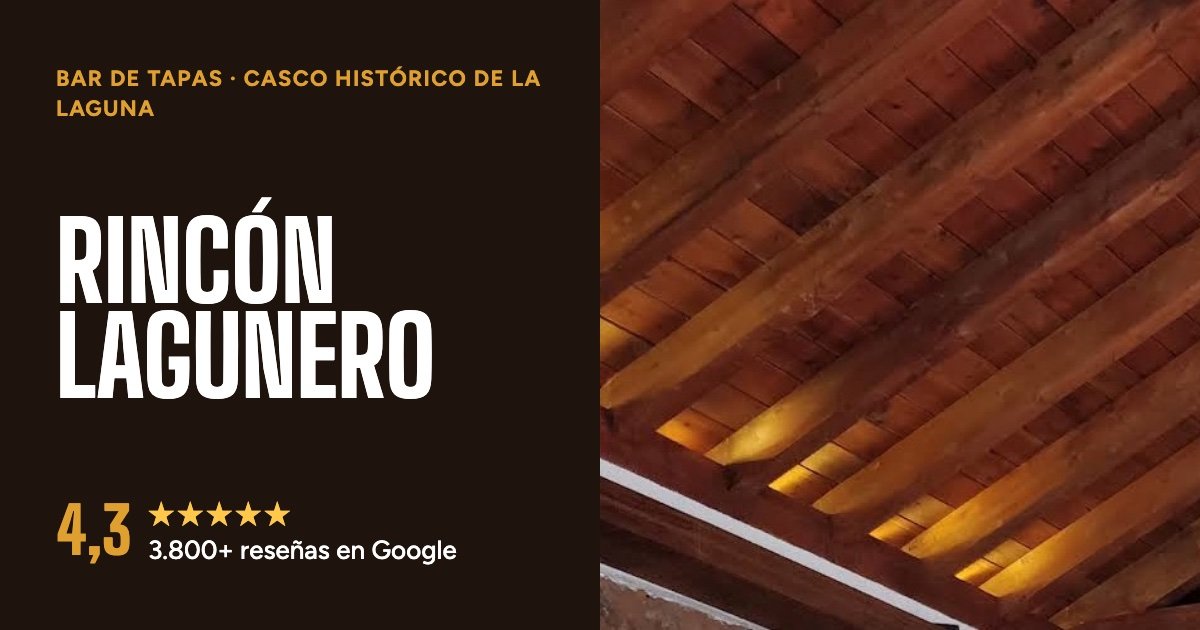
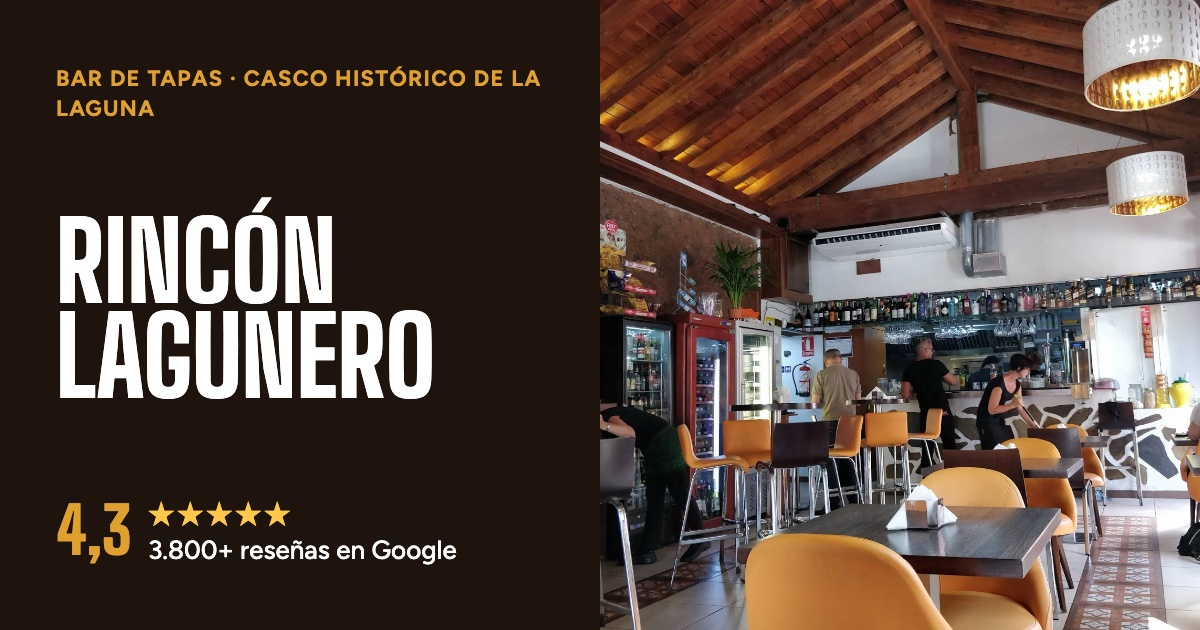
Rincón Lagunero: portada con la foto completa del local

diff --git a/rincon-lagunero/de/index.html b/rincon-lagunero/de/index.html
@@ -28,7 +28,7 @@
 <meta name="theme-color" content="#1c120b">
 <link rel="preconnect" href="https://fonts.googleapis.com"><link rel="preconnect" href="https://fonts.gstatic.com" crossorigin>
 <link href="https://fonts.googleapis.com/css2?family=Young+Serif&family=Hanken+Grotesk:wght@400;500;600&display=swap" rel="stylesheet">
-<script type="application/ld+json">{"@context": "https://schema.org", "@type": "Restaurant", "name": "Rincón Lagunero", "image": "../img/vigas.jpg", "telephone": "+34 922 15 40 27", "servesCuisine": ["Tapas", "Canarian", "Spanish"], "address": {"@type": "PostalAddress", "streetAddress": "Calle Herradores 110", "addressLocality": "San Cristóbal de La Laguna", "postalCode": "38201", "addressRegion": "Santa Cruz de Tenerife", "addressCountry": "ES"}, "hasMap": "https://www.google.com/maps/search/?api=1&query=Rinc%C3%B3n%20Lagunero%2C%20Calle%20Herradores%20110%2C%20San%20Crist%C3%B3bal%20de%20La%20Laguna", "aggregateRating": {"@type": "AggregateRating", "ratingValue": "4.3", "bestRating": "5", "reviewCount": "3842"}}</script>
+<script type="application/ld+json">{"@context": "https://schema.org", "@type": "Restaurant", "name": "Rincón Lagunero", "image": "../img/local.jpg", "telephone": "+34 922 15 40 27", "servesCuisine": ["Tapas", "Canarian", "Spanish"], "address": {"@type": "PostalAddress", "streetAddress": "Calle Herradores 110", "addressLocality": "San Cristóbal de La Laguna", "postalCode": "38201", "addressRegion": "Santa Cruz de Tenerife", "addressCountry": "ES"}, "hasMap": "https://www.google.com/maps/search/?api=1&query=Rinc%C3%B3n%20Lagunero%2C%20Calle%20Herradores%20110%2C%20San%20Crist%C3%B3bal%20de%20La%20Laguna", "aggregateRating": {"@type": "AggregateRating", "ratingValue": "4.3", "bestRating": "5", "reviewCount": "3842"}}</script>
 <script>document.documentElement.classList.add('js')</script>
 <style>
 :root{
@@ -87,7 +87,7 @@ p{margin:0}
 .btn.ghost:hover{border-color:var(--cal)}
 .hero-img{position:relative;margin:0}
 .hero-img{margin:0 calc(-1 * var(--gut))}
-.hero-img img{width:100%;aspect-ratio:1090/500;object-fit:cover;object-position:40% 50%;filter:saturate(.95) contrast(1.06)}
+.hero-img img{width:100%;aspect-ratio:4/3;object-fit:cover;object-position:50% 40%;filter:saturate(1.02) contrast(1.04)}
 .ph{position:relative;display:block}
 .ph::after{content:"";position:absolute;inset:0;background:var(--grain);opacity:.22;mix-blend-mode:overlay;pointer-events:none}
 .plate{position:absolute;left:var(--gut);bottom:-18px;z-index:2;background:var(--cal);color:var(--verde);border:2px solid var(--verde);outline:1px solid var(--cal);padding:7px 12px 6px;display:flex;align-items:baseline;gap:10px;font-family:var(--serif)}
@@ -223,7 +223,7 @@ figcaption{font-size:.8rem;color:var(--ink2);margin-top:10px;padding-left:14px;b
     </div>
   </div>
   <figure class="hero-img">
-    <span class="ph"><img src="../img/vigas.jpg" width="1090" height="500" alt="Techo de madera iluminado del Rincón Lagunero" fetchpriority="high"></span>
+    <span class="ph"><img src="../img/local.jpg" srcset="../img/local-900.jpg 900w, ../img/local.jpg 1600w" sizes="(min-width: 900px) 58vw, 100vw" width="1600" height="1200" alt="El interior del Rincón Lagunero: techo de madera, barra y sillas mostaza" fetchpriority="high"></span>
     <div class="plate" aria-hidden="true"><span>C/ Herradores</span><b>110</b></div>
   </figure>
   <ul class="chips"><li>Terrasse</li><li>Durchgehend warme Küche</li><li>Vegetarische Optionen</li></ul>

diff --git a/rincon-lagunero/en/index.html b/rincon-lagunero/en/index.html
@@ -28,7 +28,7 @@
 <meta name="theme-color" content="#1c120b">
 <link rel="preconnect" href="https://fonts.googleapis.com"><link rel="preconnect" href="https://fonts.gstatic.com" crossorigin>
 <link href="https://fonts.googleapis.com/css2?family=Young+Serif&family=Hanken+Grotesk:wght@400;500;600&display=swap" rel="stylesheet">
-<script type="application/ld+json">{"@context": "https://schema.org", "@type": "Restaurant", "name": "Rincón Lagunero", "image": "../img/vigas.jpg", "telephone": "+34 922 15 40 27", "servesCuisine": ["Tapas", "Canarian", "Spanish"], "address": {"@type": "PostalAddress", "streetAddress": "Calle Herradores 110", "addressLocality": "San Cristóbal de La Laguna", "postalCode": "38201", "addressRegion": "Santa Cruz de Tenerife", "addressCountry": "ES"}, "hasMap": "https://www.google.com/maps/search/?api=1&query=Rinc%C3%B3n%20Lagunero%2C%20Calle%20Herradores%20110%2C%20San%20Crist%C3%B3bal%20de%20La%20Laguna", "aggregateRating": {"@type": "AggregateRating", "ratingValue": "4.3", "bestRating": "5", "reviewCount": "3842"}}</script>
+<script type="application/ld+json">{"@context": "https://schema.org", "@type": "Restaurant", "name": "Rincón Lagunero", "image": "../img/local.jpg", "telephone": "+34 922 15 40 27", "servesCuisine": ["Tapas", "Canarian", "Spanish"], "address": {"@type": "PostalAddress", "streetAddress": "Calle Herradores 110", "addressLocality": "San Cristóbal de La Laguna", "postalCode": "38201", "addressRegion": "Santa Cruz de Tenerife", "addressCountry": "ES"}, "hasMap": "https://www.google.com/maps/search/?api=1&query=Rinc%C3%B3n%20Lagunero%2C%20Calle%20Herradores%20110%2C%20San%20Crist%C3%B3bal%20de%20La%20Laguna", "aggregateRating": {"@type": "AggregateRating", "ratingValue": "4.3", "bestRating": "5", "reviewCount": "3842"}}</script>
 <script>document.documentElement.classList.add('js')</script>
 <style>
 :root{
@@ -87,7 +87,7 @@ p{margin:0}
 .btn.ghost:hover{border-color:var(--cal)}
 .hero-img{position:relative;margin:0}
 .hero-img{margin:0 calc(-1 * var(--gut))}
-.hero-img img{width:100%;aspect-ratio:1090/500;object-fit:cover;object-position:40% 50%;filter:saturate(.95) contrast(1.06)}
+.hero-img img{width:100%;aspect-ratio:4/3;object-fit:cover;object-position:50% 40%;filter:saturate(1.02) contrast(1.04)}
 .ph{position:relative;display:block}
 .ph::after{content:"";position:absolute;inset:0;background:var(--grain);opacity:.22;mix-blend-mode:overlay;pointer-events:none}
 .plate{position:absolute;left:var(--gut);bottom:-18px;z-index:2;background:var(--cal);color:var(--verde);border:2px solid var(--verde);outline:1px solid var(--cal);padding:7px 12px 6px;display:flex;align-items:baseline;gap:10px;font-family:var(--serif)}
@@ -223,7 +223,7 @@ figcaption{font-size:.8rem;color:var(--ink2);margin-top:10px;padding-left:14px;b
     </div>
   </div>
   <figure class="hero-img">
-    <span class="ph"><img src="../img/vigas.jpg" width="1090" height="500" alt="Techo de madera iluminado del Rincón Lagunero" fetchpriority="high"></span>
+    <span class="ph"><img src="../img/local.jpg" srcset="../img/local-900.jpg 900w, ../img/local.jpg 1600w" sizes="(min-width: 900px) 58vw, 100vw" width="1600" height="1200" alt="El interior del Rincón Lagunero: techo de madera, barra y sillas mostaza" fetchpriority="high"></span>
     <div class="plate" aria-hidden="true"><span>C/ Herradores</span><b>110</b></div>
   </figure>
   <ul class="chips"><li>Terrace</li><li>Kitchen open all day</li><li>Vegetarian options</li></ul>

diff --git a/rincon-lagunero/index.html b/rincon-lagunero/index.html
@@ -28,7 +28,7 @@
 <meta name="theme-color" content="#1c120b">
 <link rel="preconnect" href="https://fonts.googleapis.com"><link rel="preconnect" href="https://fonts.gstatic.com" crossorigin>
 <link href="https://fonts.googleapis.com/css2?family=Young+Serif&family=Hanken+Grotesk:wght@400;500;600&display=swap" rel="stylesheet">
-<script type="application/ld+json">{"@context": "https://schema.org", "@type": "Restaurant", "name": "Rincón Lagunero", "image": "img/vigas.jpg", "telephone": "+34 922 15 40 27", "servesCuisine": ["Tapas", "Canarian", "Spanish"], "address": {"@type": "PostalAddress", "streetAddress": "Calle Herradores 110", "addressLocality": "San Cristóbal de La Laguna", "postalCode": "38201", "addressRegion": "Santa Cruz de Tenerife", "addressCountry": "ES"}, "hasMap": "https://www.google.com/maps/search/?api=1&query=Rinc%C3%B3n%20Lagunero%2C%20Calle%20Herradores%20110%2C%20San%20Crist%C3%B3bal%20de%20La%20Laguna", "aggregateRating": {"@type": "AggregateRating", "ratingValue": "4.3", "bestRating": "5", "reviewCount": "3842"}}</script>
+<script type="application/ld+json">{"@context": "https://schema.org", "@type": "Restaurant", "name": "Rincón Lagunero", "image": "img/local.jpg", "telephone": "+34 922 15 40 27", "servesCuisine": ["Tapas", "Canarian", "Spanish"], "address": {"@type": "PostalAddress", "streetAddress": "Calle Herradores 110", "addressLocality": "San Cristóbal de La Laguna", "postalCode": "38201", "addressRegion": "Santa Cruz de Tenerife", "addressCountry": "ES"}, "hasMap": "https://www.google.com/maps/search/?api=1&query=Rinc%C3%B3n%20Lagunero%2C%20Calle%20Herradores%20110%2C%20San%20Crist%C3%B3bal%20de%20La%20Laguna", "aggregateRating": {"@type": "AggregateRating", "ratingValue": "4.3", "bestRating": "5", "reviewCount": "3842"}}</script>
 <script>document.documentElement.classList.add('js')</script>
 <style>
 :root{
@@ -87,7 +87,7 @@ p{margin:0}
 .btn.ghost:hover{border-color:var(--cal)}
 .hero-img{position:relative;margin:0}
 .hero-img{margin:0 calc(-1 * var(--gut))}
-.hero-img img{width:100%;aspect-ratio:1090/500;object-fit:cover;object-position:40% 50%;filter:saturate(.95) contrast(1.06)}
+.hero-img img{width:100%;aspect-ratio:4/3;object-fit:cover;object-position:50% 40%;filter:saturate(1.02) contrast(1.04)}
 .ph{position:relative;display:block}
 .ph::after{content:"";position:absolute;inset:0;background:var(--grain);opacity:.22;mix-blend-mode:overlay;pointer-events:none}
 .plate{position:absolute;left:var(--gut);bottom:-18px;z-index:2;background:var(--cal);color:var(--verde);border:2px solid var(--verde);outline:1px solid var(--cal);padding:7px 12px 6px;display:flex;align-items:baseline;gap:10px;font-family:var(--serif)}
@@ -223,7 +223,7 @@ figcaption{font-size:.8rem;color:var(--ink2);margin-top:10px;padding-left:14px;b
     </div>
   </div>
   <figure class="hero-img">
-    <span class="ph"><img src="img/vigas.jpg" width="1090" height="500" alt="Techo de madera iluminado del Rincón Lagunero" fetchpriority="high"></span>
+    <span class="ph"><img src="img/local.jpg" srcset="img/local-900.jpg 900w, img/local.jpg 1600w" sizes="(min-width: 900px) 58vw, 100vw" width="1600" height="1200" alt="El interior del Rincón Lagunero: techo de madera, barra y sillas mostaza" fetchpriority="high"></span>
     <div class="plate" aria-hidden="true"><span>C/ Herradores</span><b>110</b></div>
   </figure>
   <ul class="chips"><li>Terraza</li><li>Cocina todo el día</li><li>Opciones vegetarianas</li></ul>
